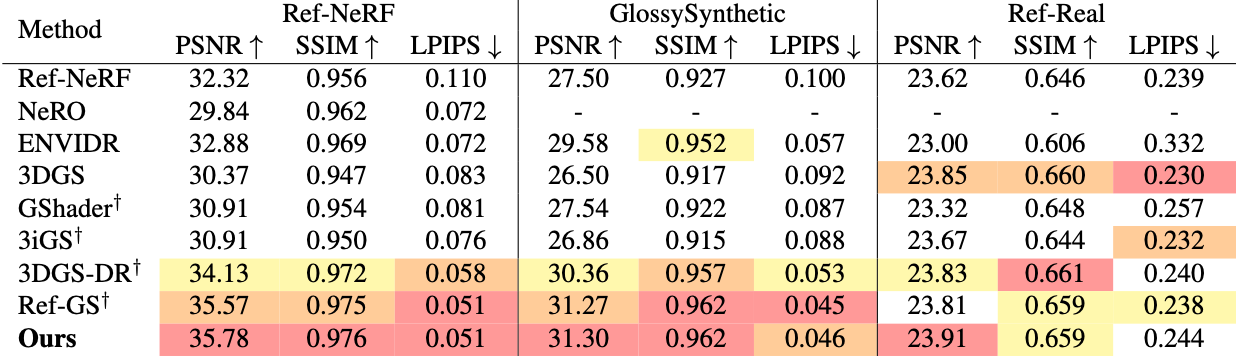
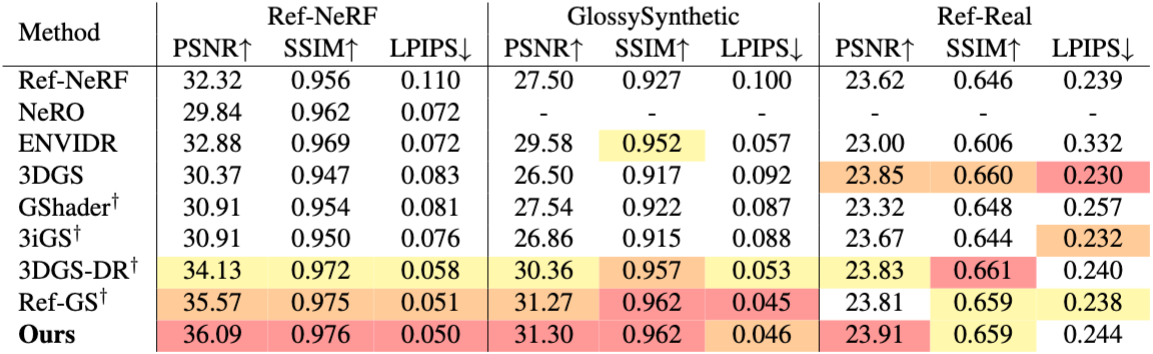
website upload

diff --git a/index.html b/index.html
@@ -306,7 +306,7 @@
             <img src="./assets/media/github.png" alt="GitHub logo"> Code
         </a>
 
-        <a href="https://drive.google.com/file/d/1kT8xSo03mSEcdW2WouVeU4hMFXFqpbbu/view?usp=sharing" target="_blank"
+        <a href="https://colab.research.google.com/drive/1kT8xSo03mSEcdW2WouVeU4hMFXFqpbbu" target="_blank"
             class="resource-btn">
             <img src="./assets/media/colab.png" alt="GitHub logo"> Colab
         </a>
@@ -369,16 +369,17 @@
                 Your browser does not support the video tag.
             </video>
         </div>
+
         <p class="text-muted font-italic text-justify" style="max-width: 1100px;">
             Spherical functions like the shown environment maps have a multitude of applications in Computer Graphics
-            and 3D Computer
-            Vision. Classical representations like Spherical Harmonics (SH) optimize well but struggle in representing
-            high-frequency functions. Explicit representations like Spherical Gaussians (SG) are capable of representing
-            localized functions, but they are
-            difficult to optimize due to the locality of support of their bases. We propose Spherical Voronoi (SV) as a
-            new explicit representation that is
-            capable of modeling high-frequencies effectively, provides an <i>adaptive</i> decomposition of the spherical
-            domain, and is <i>easier</i> to optimize.
+            and 3D Computer Vision. Classical representations like Spherical Harmonics (SH) optimize well but struggle
+            to represent high-frequency functions. Explicit representations such as Spherical Gaussians (SG) can capture
+            localized signals but are difficult to optimize due to the locality of support of their bases. We propose
+            Spherical Voronoi (SV) as a new explicit representation that effectively models high-frequency content,
+            provides an <i>adaptive</i> decomposition of the spherical domain, and is <i>easier</i> to optimize.
+            SH are evaluated up to degree <i>L</i>=48, corresponding to 2,401 basis functions per channel
+            (7,203 parameters in total), which is roughly equivalent in representational capacity to
+            1,024 SG or 1,024 SV sites.
         </p>
 
 
@@ -1111,7 +1112,7 @@
                             </div>
                             <div class="comparison-controls">
                                 <button class="play-btn"><span>⏸</span><span>Pause</span></button>
-                                <button class="reset-btn"><span>🔄</span><span>Refresh</span></button>
+                                <button class="reset-btn"><span>🔄</span><span>Resync</span></button>
                             </div>
                         </div>
 
@@ -1131,7 +1132,7 @@
                             </div>
                             <div class="comparison-controls">
                                 <button class="play-btn"><span>⏸</span><span>Pause</span></button>
-                                <button class="reset-btn"><span>🔄</span><span>Refresh</span></button>
+                                <button class="reset-btn"><span>🔄</span><span>Resync</span></button>
                             </div>
                         </div>
 
@@ -1151,7 +1152,7 @@
                             </div>
                             <div class="comparison-controls">
                                 <button class="play-btn"><span>⏸</span><span>Pause</span></button>
-                                <button class="reset-btn"><span>🔄</span><span>Refresh</span></button>
+                                <button class="reset-btn"><span>🔄</span><span>Resync</span></button>
                             </div>
                         </div>
                     </div>
@@ -1186,7 +1187,7 @@
                             </div>
                             <div class="comparison-controls">
                                 <button class="play-btn"><span>⏸</span><span>Pause</span></button>
-                                <button class="reset-btn"><span>🔄</span><span>Refresh</span></button>
+                                <button class="reset-btn"><span>🔄</span><span>Resync</span></button>
                             </div>
                         </div>
 
@@ -1204,7 +1205,7 @@
                             </div>
                             <div class="comparison-controls">
                                 <button class="play-btn"><span>⏸</span><span>Pause</span></button>
-                                <button class="reset-btn"><span>🔄</span><span>Refresh</span></button>
+                                <button class="reset-btn"><span>🔄</span><span>Resync</span></button>
                             </div>
                         </div>
 
@@ -1222,7 +1223,7 @@
                             </div>
                             <div class="comparison-controls">
                                 <button class="play-btn"><span>⏸</span><span>Pause</span></button>
-                                <button class="reset-btn"><span>🔄</span><span>Refresh</span></button>
+                                <button class="reset-btn"><span>🔄</span><span>Resync</span></button>
                             </div>
                         </div>
 
@@ -1240,7 +1241,7 @@
                             </div>
                             <div class="comparison-controls">
                                 <button class="play-btn"><span>⏸</span><span>Pause</span></button>
-                                <button class="reset-btn"><span>🔄</span><span>Refresh</span></button>
+                                <button class="reset-btn"><span>🔄</span><span>Resync</span></button>
                             </div>
                         </div>
                     </div>
@@ -1272,7 +1273,7 @@
                             </div>
                             <div class="comparison-controls">
                                 <button class="play-btn"><span>⏸</span><span>Pause</span></button>
-                                <button class="reset-btn"><span>🔄</span><span>Refresh</span></button>
+                                <button class="reset-btn"><span>🔄</span><span>Resync</span></button>
                             </div>
                         </div>
 
@@ -1290,7 +1291,7 @@
                             </div>
                             <div class="comparison-controls">
                                 <button class="play-btn"><span>⏸</span><span>Pause</span></button>
-                                <button class="reset-btn"><span>🔄</span><span>Refresh</span></button>
+                                <button class="reset-btn"><span>🔄</span><span>Resync</span></button>
                             </div>
                         </div>
 
@@ -1308,7 +1309,7 @@
                             </div>
                             <div class="comparison-controls">
                                 <button class="play-btn"><span>⏸</span><span>Pause</span></button>
-                                <button class="reset-btn"><span>🔄</span><span>Refresh</span></button>
+                                <button class="reset-btn"><span>🔄</span><span>Resync</span></button>
                             </div>
                         </div>
                     </div>
@@ -1343,7 +1344,7 @@
                             </div>
                             <div class="comparison-controls">
                                 <button class="play-btn"><span>⏸</span><span>Pause</span></button>
-                                <button class="reset-btn"><span>🔄</span><span>Refresh</span></button>
+                                <button class="reset-btn"><span>🔄</span><span>Resync</span></button>
                             </div>
                         </div>
 
@@ -1361,7 +1362,7 @@
                             </div>
                             <div class="comparison-controls">
                                 <button class="play-btn"><span>⏸</span><span>Pause</span></button>
-                                <button class="reset-btn"><span>🔄</span><span>Refresh</span></button>
+                                <button class="reset-btn"><span>🔄</span><span>Resync</span></button>
                             </div>
                         </div>
 
@@ -1379,7 +1380,7 @@
                             </div>
                             <div class="comparison-controls">
                                 <button class="play-btn"><span>⏸</span><span>Pause</span></button>
-                                <button class="reset-btn"><span>🔄</span><span>Refresh</span></button>
+                                <button class="reset-btn"><span>🔄</span><span>Resync</span></button>
                             </div>
                         </div>
 
@@ -1397,7 +1398,7 @@
                             </div>
                             <div class="comparison-controls">
                                 <button class="play-btn"><span>⏸</span><span>Pause</span></button>
-                                <button class="reset-btn"><span>🔄</span><span>Refresh</span></button>
+                                <button class="reset-btn"><span>🔄</span><span>Resync</span></button>
                             </div>
                         </div>
                     </div>
@@ -1429,7 +1430,7 @@
                             </div>
                             <div class="comparison-controls">
                                 <button class="play-btn"><span>⏸</span><span>Pause</span></button>
-                                <button class="reset-btn"><span>🔄</span><span>Refresh</span></button>
+                                <button class="reset-btn"><span>🔄</span><span>Resync</span></button>
                             </div>
                         </div>
 
@@ -1447,7 +1448,7 @@
                             </div>
                             <div class="comparison-controls">
                                 <button class="play-btn"><span>⏸</span><span>Pause</span></button>
-                                <button class="reset-btn"><span>🔄</span><span>Refresh</span></button>
+                                <button class="reset-btn"><span>🔄</span><span>Resync</span></button>
                             </div>
                         </div>
 
@@ -1465,7 +1466,7 @@
                             </div>
                             <div class="comparison-controls">
                                 <button class="play-btn"><span>⏸</span><span>Pause</span></button>
-                                <button class="reset-btn"><span>🔄</span><span>Refresh</span></button>
+                                <button class="reset-btn"><span>🔄</span><span>Resync</span></button>
                             </div>
                         </div>
 
@@ -1483,7 +1484,7 @@
                             </div>
                             <div class="comparison-controls">
                                 <button class="play-btn"><span>⏸</span><span>Pause</span></button>
-                                <button class="reset-btn"><span>🔄</span><span>Refresh</span></button>
+                                <button class="reset-btn"><span>🔄</span><span>Resync</span></button>
                             </div>
                         </div>
                     </div>
@@ -1517,7 +1518,7 @@
                             </div>
                             <div class="comparison-controls">
                                 <button class="play-btn"><span>⏸</span><span>Pause</span></button>
-                                <button class="reset-btn"><span>🔄</span><span>Refresh</span></button>
+                                <button class="reset-btn"><span>🔄</span><span>Resync</span></button>
                             </div>
                         </div>
 
@@ -1535,7 +1536,7 @@
                             </div>
                             <div class="comparison-controls">
                                 <button class="play-btn"><span>⏸</span><span>Pause</span></button>
-                                <button class="reset-btn"><span>🔄</span><span>Refresh</span></button>
+                                <button class="reset-btn"><span>🔄</span><span>Resync</span></button>
                             </div>
                         </div>
 
@@ -1553,7 +1554,7 @@
                             </div>
                             <div class="comparison-controls">
                                 <button class="play-btn"><span>⏸</span><span>Pause</span></button>
-                                <button class="reset-btn"><span>🔄</span><span>Refresh</span></button>
+                                <button class="reset-btn"><span>🔄</span><span>Resync</span></button>
                             </div>
                         </div>
                     </div>
@@ -1585,7 +1586,7 @@
                             </div>
                             <div class="comparison-controls">
                                 <button class="play-btn"><span>⏸</span><span>Pause</span></button>
-                                <button class="reset-btn"><span>🔄</span><span>Refresh</span></button>
+                                <button class="reset-btn"><span>🔄</span><span>Resync</span></button>
                             </div>
                         </div>
 
@@ -1603,7 +1604,7 @@
                             </div>
                             <div class="comparison-controls">
                                 <button class="play-btn"><span>⏸</span><span>Pause</span></button>
-                                <button class="reset-btn"><span>🔄</span><span>Refresh</span></button>
+                                <button class="reset-btn"><span>🔄</span><span>Resync</span></button>
                             </div>
                         </div>
 
@@ -1621,7 +1622,7 @@
                             </div>
                             <div class="comparison-controls">
                                 <button class="play-btn"><span>⏸</span><span>Pause</span></button>
-                                <button class="reset-btn"><span>🔄</span><span>Refresh</span></button>
+                                <button class="reset-btn"><span>🔄</span><span>Resync</span></button>
                             </div>
                         </div>
 
@@ -1639,7 +1640,7 @@
                             </div>
                             <div class="comparison-controls">
                                 <button class="play-btn"><span>⏸</span><span>Pause</span></button>
-                                <button class="reset-btn"><span>🔄</span><span>Refresh</span></button>
+                                <button class="reset-btn"><span>🔄</span><span>Resync</span></button>
                             </div>
                         </div>
                     </div>

diff --git a/assets/js/3dvoronoi.js b/assets/js/3dvoronoi.js
@@ -375,29 +375,33 @@ void main(){
     window.addEventListener("mouseup", onMouseUp);
     window.addEventListener("mousemove", onMouseMove);
 
-    canvas.addEventListener(
-        "wheel",
-        (e) => {
-            e.preventDefault();
-        },
-        { passive: false }
-    );
+    // canvas.addEventListener(
+    //     "wheel",
+    //     (e) => {
+    //         e.preventDefault();
+    //     },
+    //     { passive: false }
+    // );
 
     function animate() {
         requestAnimationFrame(animate);
 
         const now = performance.now();
-        const dt = (now - lastTime) * 0.001; 
+        const dt = (now - lastTime) * 0.001;
         lastTime = now;
         elapsed += dt;
 
-        autoYaw += AUTO_YAW_SPEED * dt;
-        if (autoYaw > Math.PI * 2) autoYaw -= Math.PI * 2;
+        // Aggiorna l'auto-rotazione SOLO se non stai trascinando
+        if (!dragging) {
+            autoYaw += AUTO_YAW_SPEED * dt;
+            if (autoYaw > Math.PI * 2.0) autoYaw -= Math.PI * 2.0;
 
-        autoPitch = AUTO_PITCH_AMPLITUDE * Math.sin(AUTO_PITCH_SPEED * elapsed);
+            autoPitch = AUTO_PITCH_AMPLITUDE * Math.sin(AUTO_PITCH_SPEED * elapsed);
+        }
 
         applyCameraTransform();
         renderer.render(scene, camera);
     }
+
     animate();
 })();
